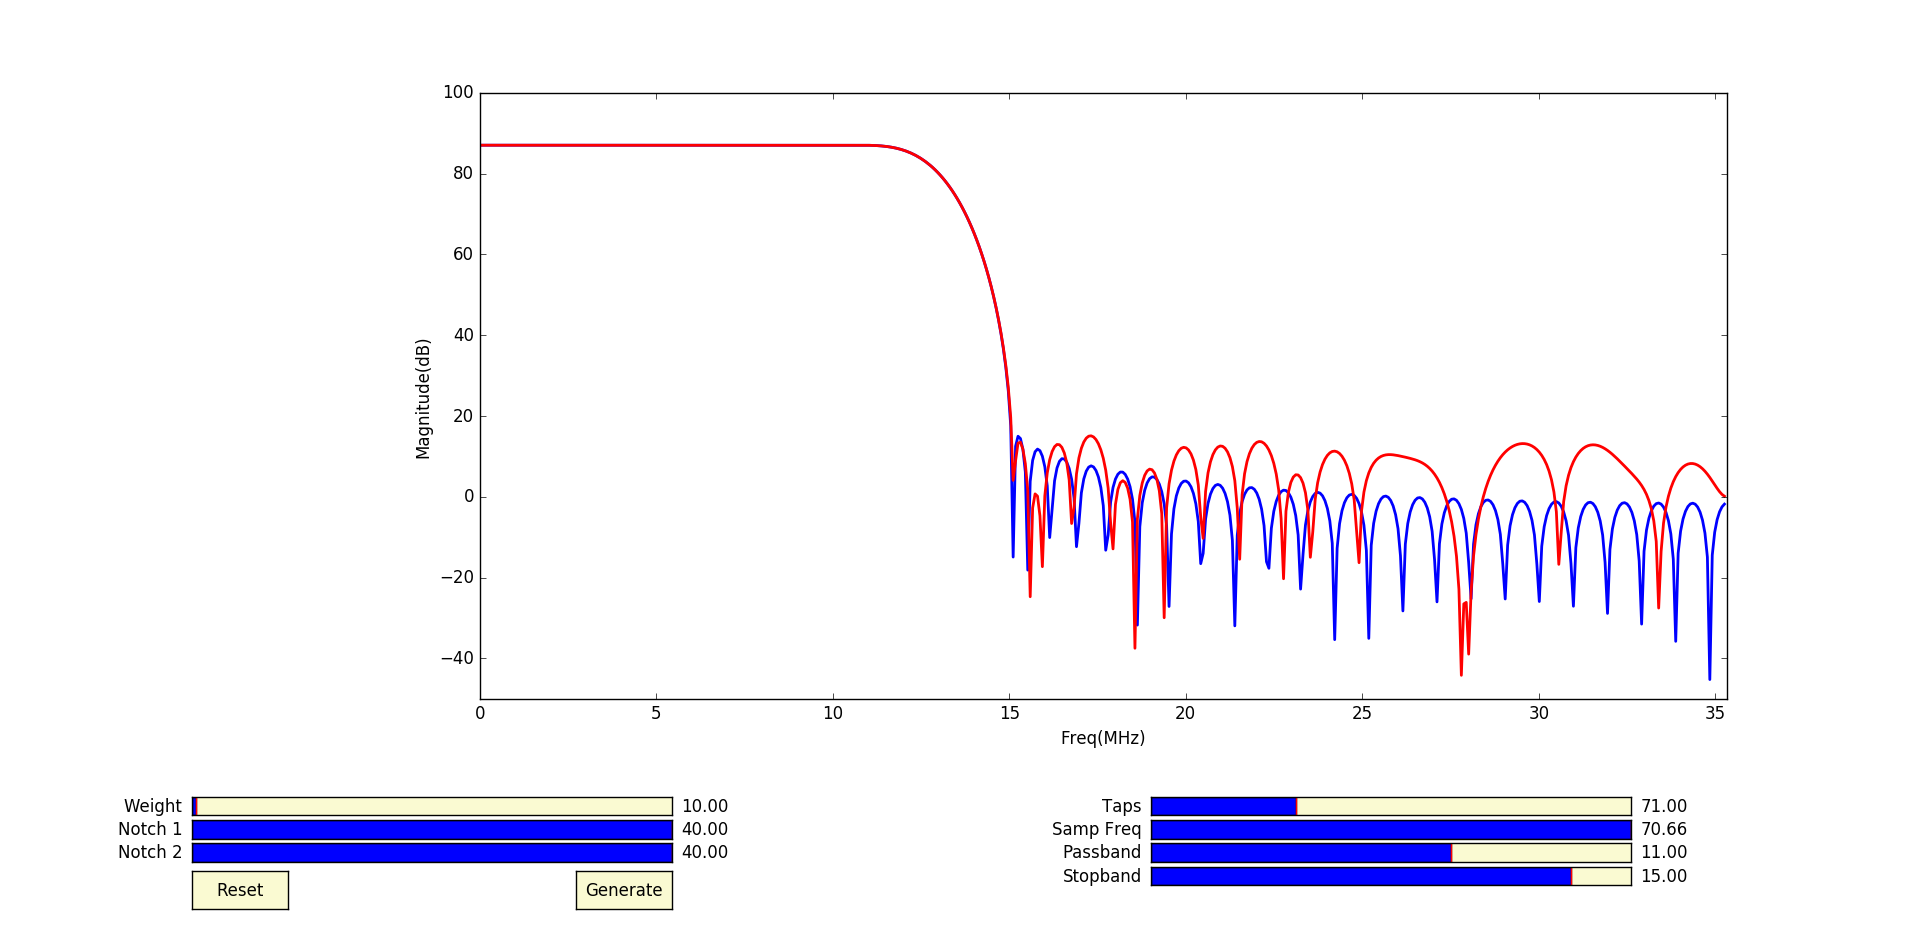
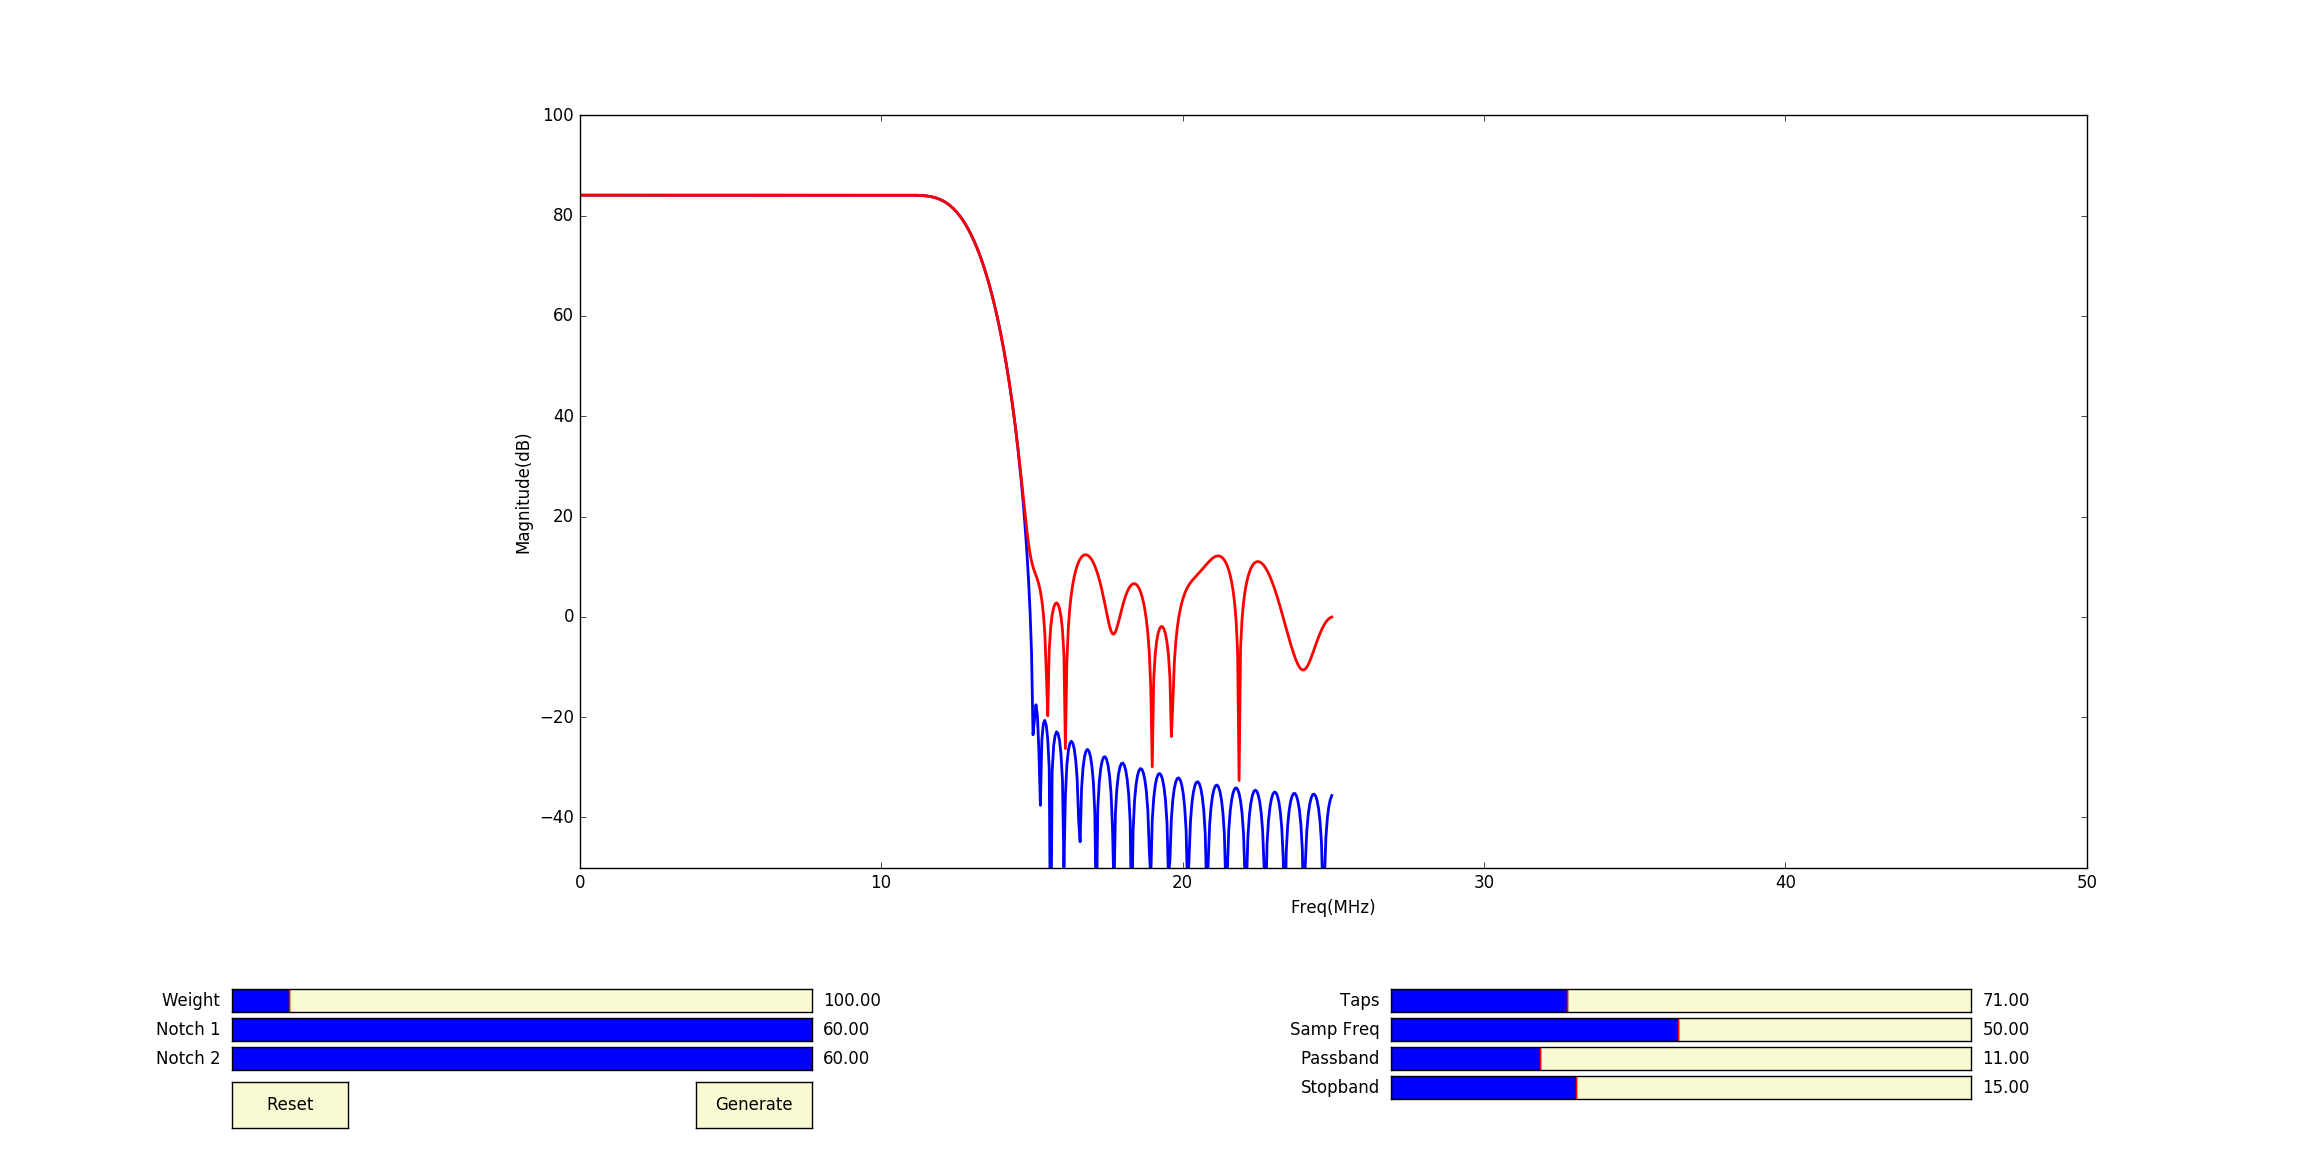
[Issue: Plot X-axis bug & Plot Figure update]

diff --git a/LSDesignAdvanced.py b/LSDesignAdvanced.py
@@ -29,7 +29,7 @@ freq = np.zeros(512)
 for i in range(0,512) :
     freq[i] = Fsamp/2 * i/512
 l1, = plt.plot(freq,Mag, lw=2, color='blue')
-plt.axis([0, Fsamp/2, -50, 100])
+plt.axis([0, 50.0, -50, 100])
 l2, = plt.plot(freq,Mag_quant, lw=2, color='red')
 
 axcolor = 'lightgoldenrodyellow'
